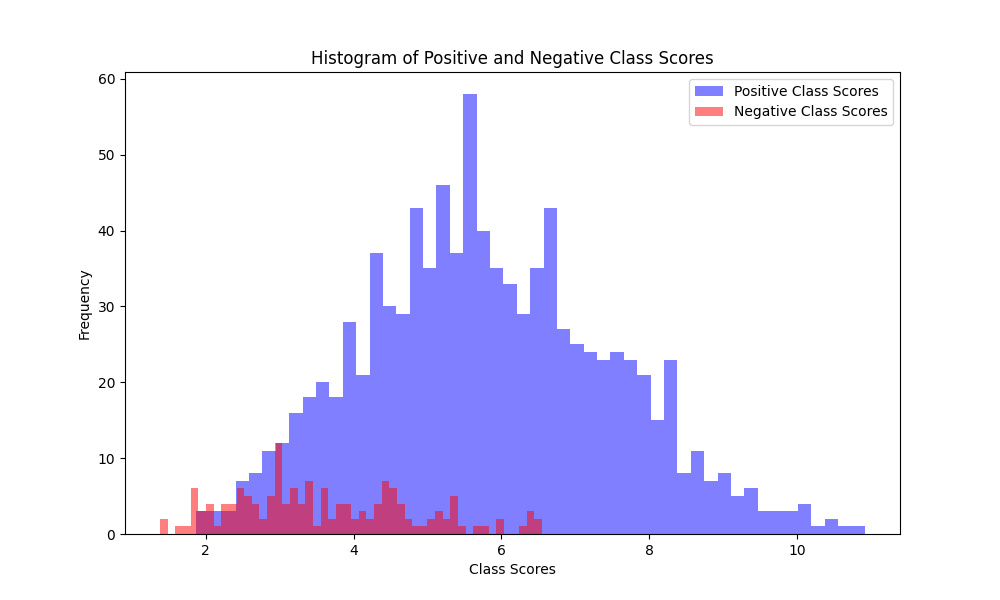
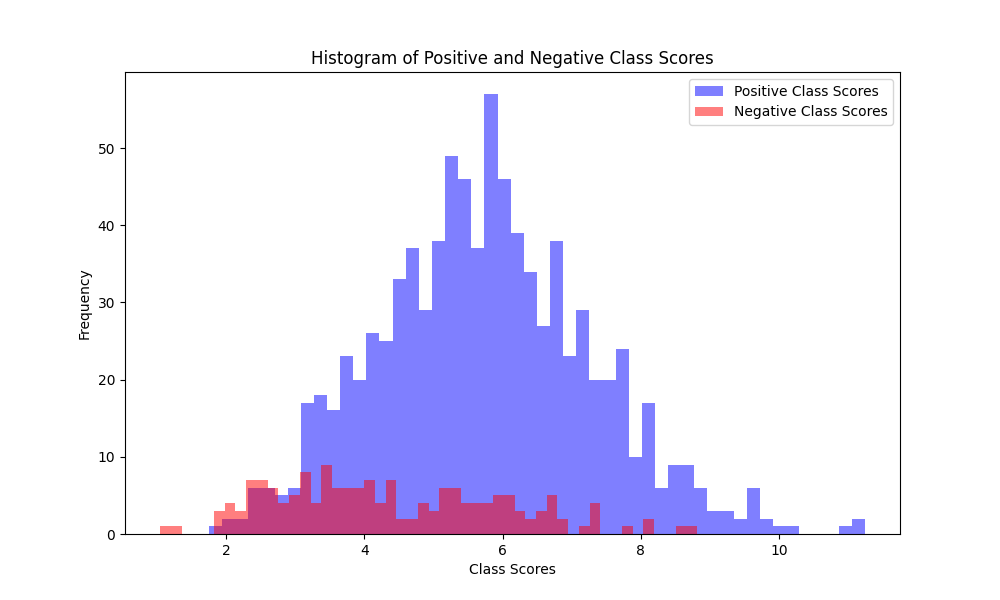
misc

diff --git a/ct_classifier/testing_metrics.py b/ct_classifier/testing_metrics.py
@@ -108,6 +108,34 @@ plt.legend()
 # plt.show()
 plt.savefig('Histogram Scores')
 
+# try plotting them per class
+# Create a dictionary to store scores for each class
+class_scores = {class_label: [] for class_label in range(cfg['num_classes'])}
+
+# Iterate through the validation data
+for inputs, labels in dl_val:
+    predictions = model(inputs)
+    max_pred = predictions.max(dim=1).values
+    
+    for i in range(len(labels)):
+        class_label = labels[i].item()
+        class_scores[class_label].append(max_pred[i].item())
+
+# Plot histograms for each class
+num_bins = 50  # You can adjust this value based on your preference
+plt.figure(figsize=(10, 6))
+
+for class_label, scores in class_scores.items():
+    plt.hist(scores, bins=num_bins, alpha=0.5, label=f'Class {class_label} Scores')
+
+plt.xlabel('Class Scores')
+plt.ylabel('Frequency')
+plt.title('Histogram of Class Scores')
+plt.legend()
+# plt.show()
+plt.savefig('Histogram_Scores_by_Class')
+
+
 # this would just print the last batch as a batch sized tensor
 # print (labels)
 

diff --git a/ct_classifier/histogram_per_class.py b/ct_classifier/histogram_per_class.py
@@ -1,0 +1,25 @@
+# Create a dictionary to store scores for each class
+class_scores = {class_label: [] for class_label in range(cfg['num_classes'])}
+
+# Iterate through the validation data
+for inputs, labels in dl_val:
+    predictions = model(inputs)
+    max_pred = predictions.max(dim=1).values
+    
+    for i in range(len(labels)):
+        class_label = labels[i].item()
+        class_scores[class_label].append(max_pred[i].item())
+
+# Plot histograms for each class
+num_bins = 50  # You can adjust this value based on your preference
+plt.figure(figsize=(10, 6))
+
+for class_label, scores in class_scores.items():
+    plt.hist(scores, bins=num_bins, alpha=0.5, label=f'Class {class_label} Scores')
+
+plt.xlabel('Class Scores')
+plt.ylabel('Frequency')
+plt.title('Histogram of Class Scores')
+plt.legend()
+# plt.show()
+plt.savefig('Histogram_Scores_by_Class')

diff --git a/ct_classifier/dataset.py b/ct_classifier/dataset.py
@@ -80,7 +80,7 @@ class CTDataset(Dataset):
         annoPath = os.path.join(
             self.data_root,
             'high',
-            'training_18_08.json' if self.split=='train' else 'val_18_08.json'
+            'training.json' if self.split=='train' else 'val.json' # was formerly: training_18_08.json
         )
 
         # print(annoPath)
